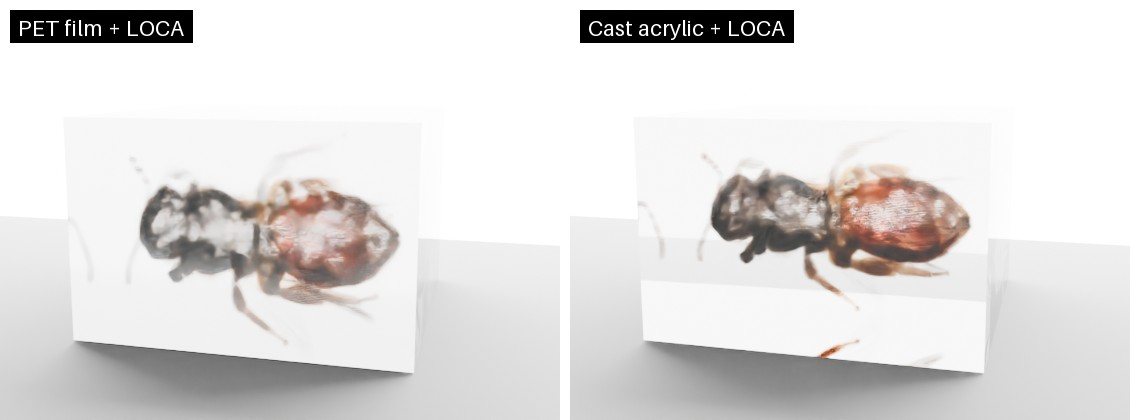
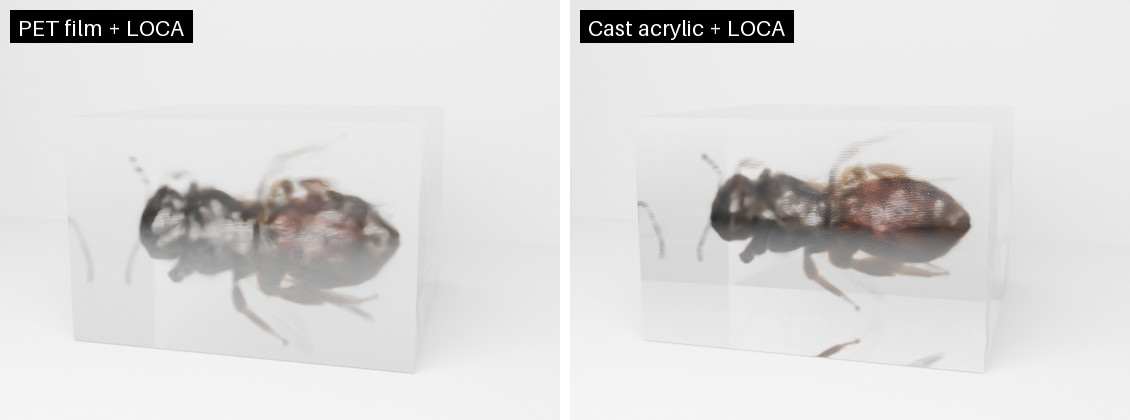
Re-render angle and material comparisons front-lit on white

diff --git a/README.md b/README.md
@@ -57,9 +57,9 @@ With **Show Stacking** on, the block shows:
 
 ## Optical preview (Cycles)
 
-![The bee block face-on and oblique on a light base, and grazing and edge-on with a backlight](docs/images/optical.jpg)
+![The bee block face-on, oblique, grazing and edge-on](docs/images/optical.jpg)
 
-*0.2 mm film (143 sheets), Ink Density 0.3, Brightness 4.6, Fine quality.*
+*Front-Lit, White; 0.2 mm film (143 sheets), Ink Density 0.3, Brightness 4.6, Fast quality.*
 
 Pick the **Material** first. Each preset sets the refractive indices, haze, side finish (polished) and ink scatter:
 
@@ -73,7 +73,7 @@ Changing any value by hand switches the menu to *Custom*.
 
 ![The same block 10 degrees above the layers: PET film on the left, cast acrylic on the right](docs/images/pet_vs_acrylic.jpg)
 
-*10° above the layers, Fine quality. Both stay readable. PET (left) is a little softer, with fine striping
+*10° above the layers, Front-Lit White, Ink Density 0.3, Fine quality. Both stay readable. PET (left) is a little softer, with fine striping
 from its index step and coating haze. Cast acrylic (right), with indices matched to the glue, is crisper.*
 
 **Build Optical Block** builds the laminated block as Cycles glass:
